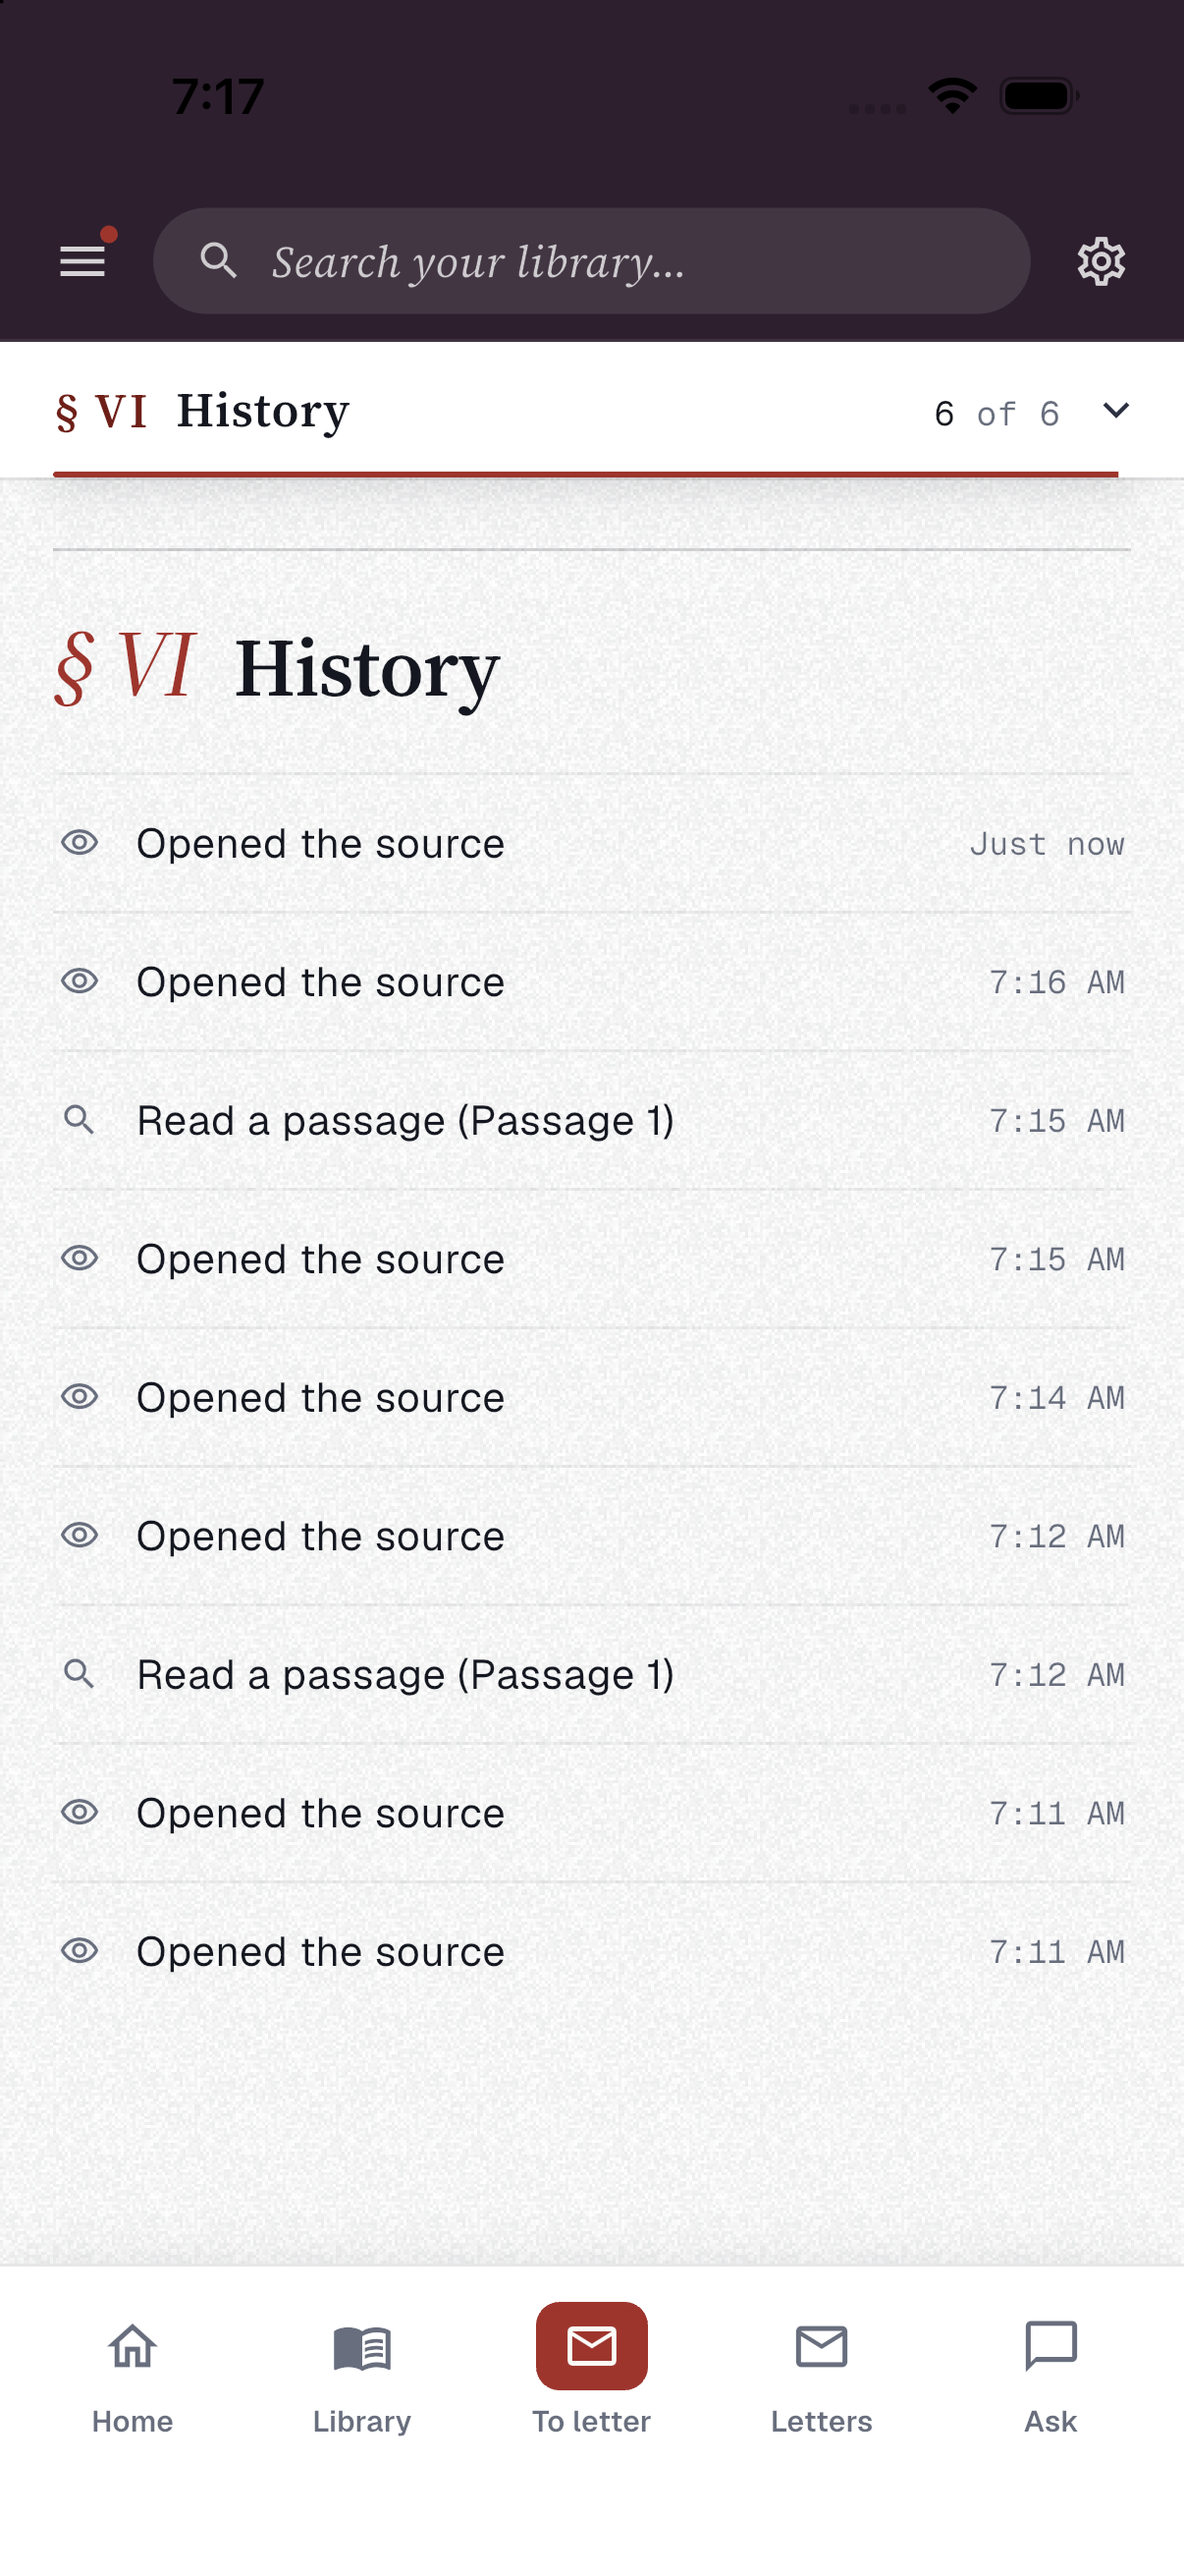
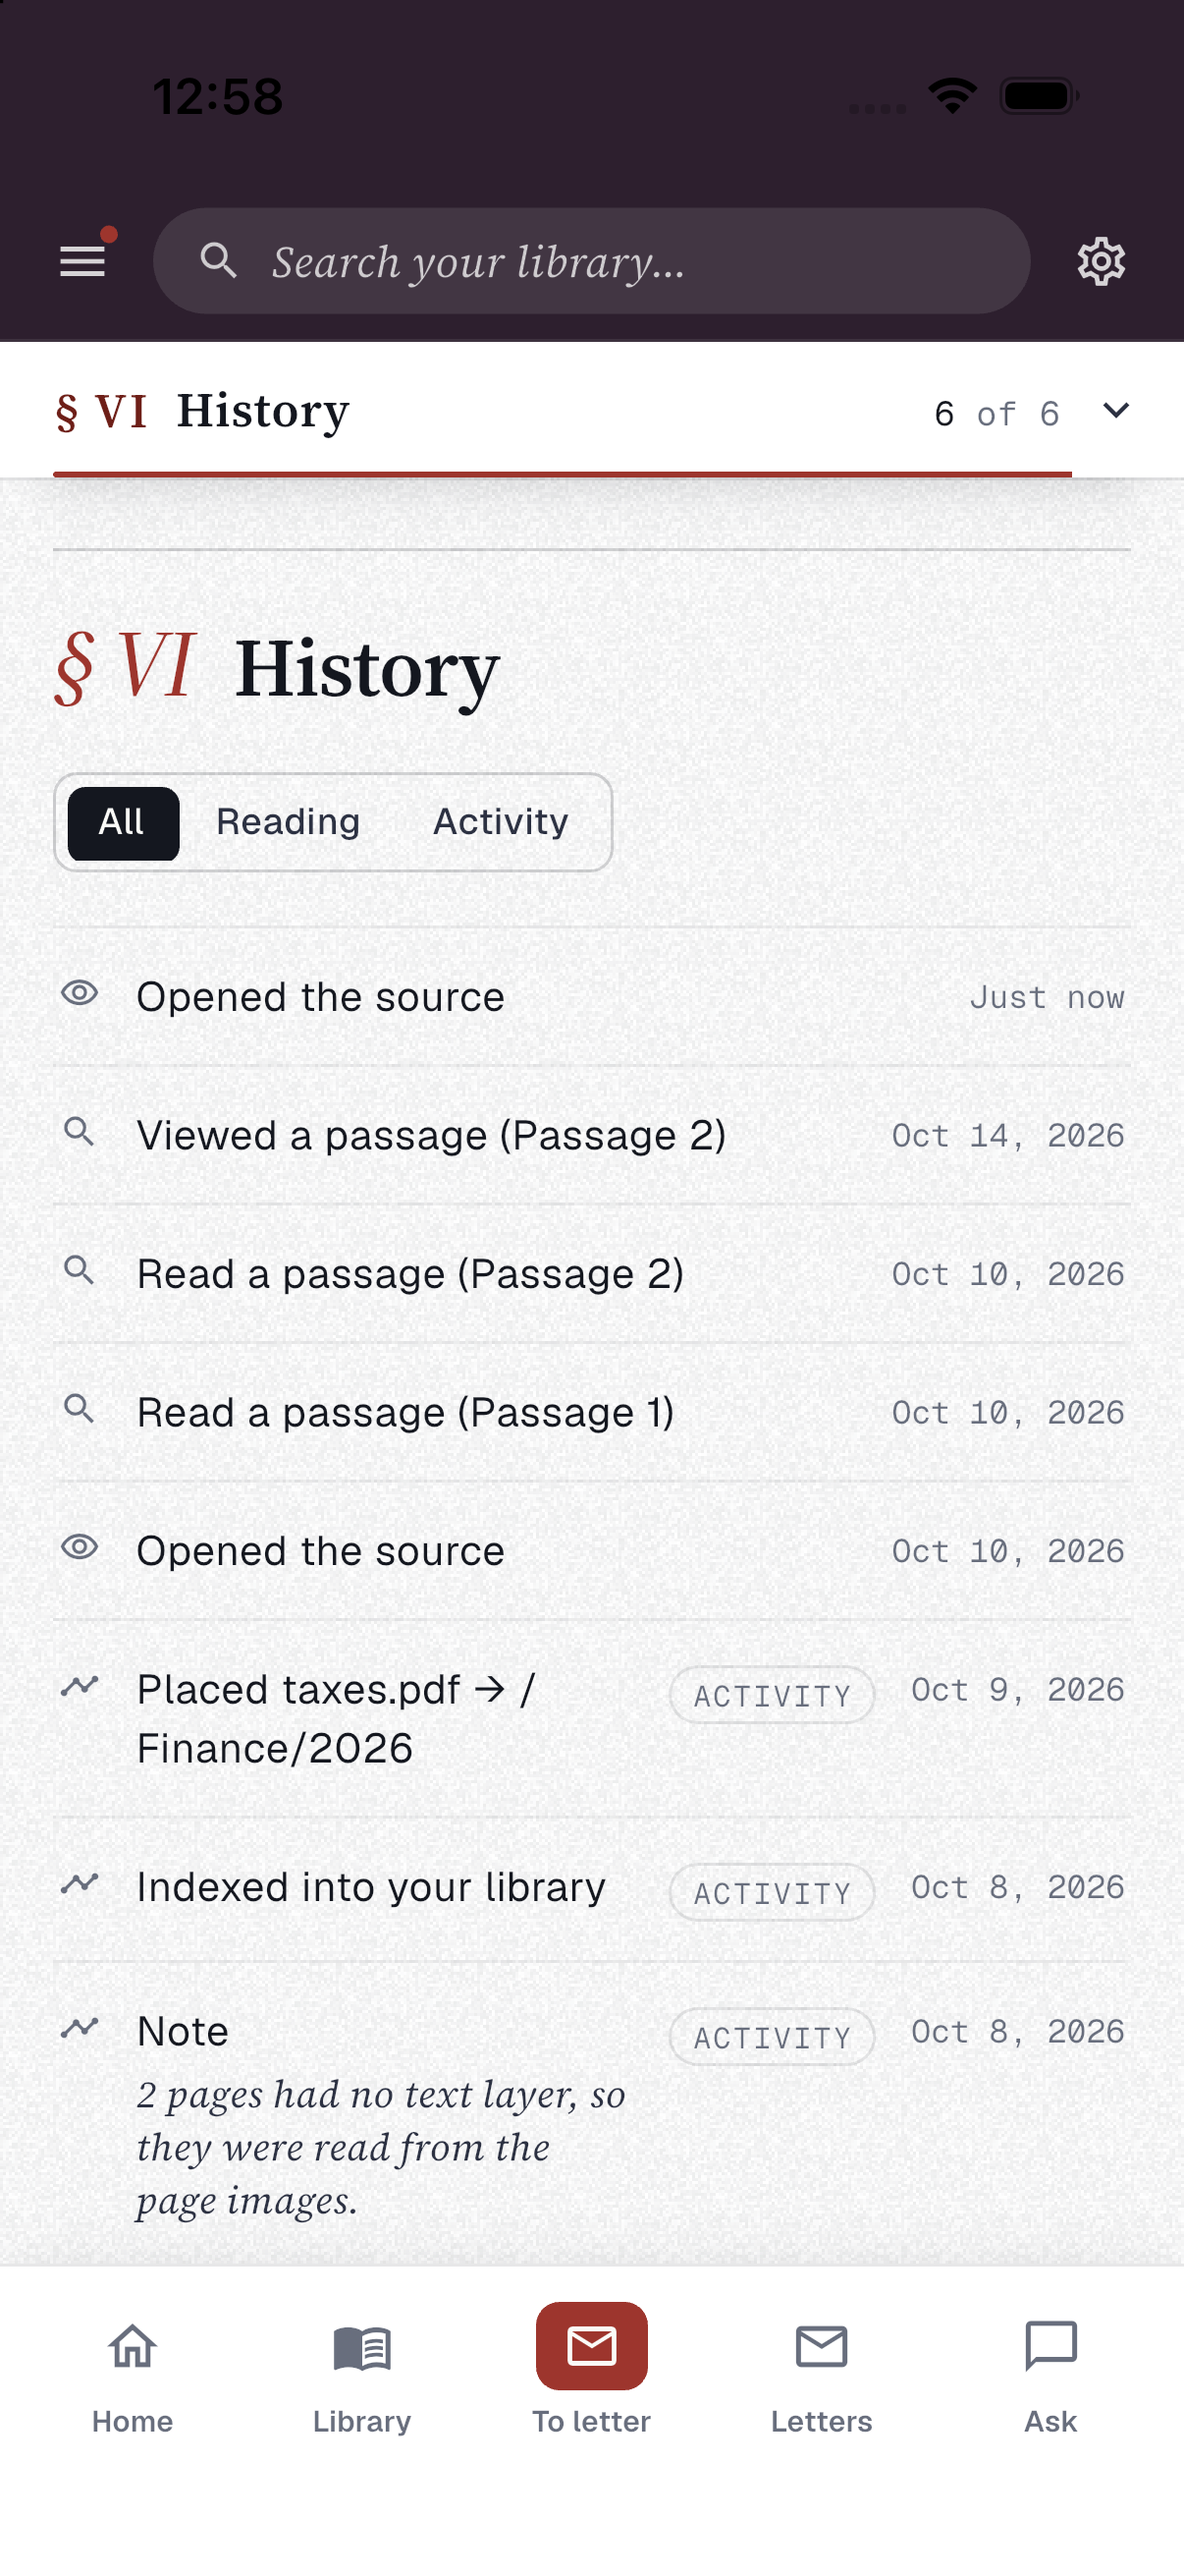
F-151, F-147 and F-148 done: their device runs and pairs on 432E0C97 (F-151 sources.md §The OAuth return; F-147 reader.md §History; F-148 study.md)
Device: "the OAuth return: an app session comes back, is claimed, and
the page files the import under a shelf (F-151)", "the source's History
folds in its Activity and the switch filters it" and "How Deep Study
Works opens from Study, its New program opens the editor, and a phone
session draws no key hint" all green on iOS 26.5 against the alt-port
emulator suite, from the main tree.

F-151's test and its oauth-granted-picked hold now drop the running head
before File under. On a phone the manifest is the page's KitDSheet (web's
phone frame folds it the same way, "2 items selected · STORIES"). Folded,
it sits under an IgnorePointer, so the select tap went to the page's
scroll and no Finance option opened. The first run failed there
(Bad state: No element). The hold folds the sheet again, so its frame is
web's closed peek, "1 item selected · FINANCE".

Pairs (light + dark, beside web's): oauth-granted, -granted-picked,
-already, -empty, -denied, -expired, -failed; reader-history, -activity,
-refused, -empty (tool/seed_history.py, --deny-reads, --deny-creates,
--remove); study, study-how. All are OK and settled, and each was looked
at against web. F-151's shots: field now names its seven holds.

Gates: analyze 0 · queue lint 0 · test/contract +1573 -1 (the held pin
only, 5.24.0) · screenshot_pair_check names none of these screens (its
existing STALE-PAIR / STALE-WEB-FRAME backlog is unchanged).

Claude-Session: https://claude.ai/code/session_016EQtQQQ8B5Vee7f4776UTt

diff --git a/integration_test/hold_screen_test.dart b/integration_test/hold_screen_test.dart
@@ -997,11 +997,27 @@ Future<void> reachState(WidgetTester tester, String holdState) async {
       if (holdState == 'oauth-granted-picked') {
         await tester.tap(find.bySemanticsLabel('Bring in Docs').first);
         await settle();
+        // On a phone the manifest is the running head's sheet: drop it to
+        // reach File under (folded, an IgnorePointer takes the tap), file
+        // under Finance, and fold it again — web's phone frame holds the
+        // closed peek with the shelf as its meta.
+        final peek = find.byKey(const ValueKey('d-peek'));
+        if (peek.evaluate().isNotEmpty) {
+          await tester.tap(peek);
+          await settle();
+        }
         await tester.ensureVisible(find.text('NoteLetter chooses').first);
-        await tester.tap(find.text('NoteLetter chooses').first);
+        final chooses = find.text('NoteLetter chooses').hitTestable();
+        expect(chooses, findsOneWidget,
+            reason: 'File under cannot be reached on a phone');
+        await tester.tap(chooses);
         await settle();
         await tester.tap(find.text('Finance').last);
         await settle();
+        if (peek.evaluate().isNotEmpty) {
+          await tester.tap(peek);
+          await settle();
+        }
       }
       return;
     // A source's History (5.44.0, ADR-199; F-147), the reference's

diff --git a/integration_test/device_run_test.dart b/integration_test/device_run_test.dart
@@ -4240,9 +4240,21 @@ void main() {
       await tester.ensureVisible(docs.first);
       await tester.tap(docs.first);
       await pumpFor(tester, total: const Duration(seconds: 1));
+      // On a phone the manifest is the running head's sheet (KitDSheet), as
+      // on web's phone frame: drop it to reach File under. Folded, it sits
+      // under an IgnorePointer, so a tap on the select reached the page's
+      // scroll instead (the first device run, 2026-11-02).
+      final head = find.byKey(const ValueKey('d-peek'));
+      if (head.evaluate().isNotEmpty) {
+        await tester.tap(head);
+        await pumpFor(tester, total: const Duration(milliseconds: 1200));
+      }
       // File under: the seed's Finance shelf, from the select.
       await tester.ensureVisible(find.text('NoteLetter chooses').first);
-      await tester.tap(find.text('NoteLetter chooses').first);
+      final chooses = find.text('NoteLetter chooses').hitTestable();
+      expect(chooses, findsOneWidget,
+          reason: 'File under cannot be reached on a phone');
+      await tester.tap(chooses);
       await pumpFor(tester, total: const Duration(seconds: 1));
       await tester.tap(find.text('Finance').last);
       await pumpFor(tester, total: const Duration(seconds: 1));

diff --git a/QUEUE.md b/QUEUE.md
@@ -2394,7 +2394,7 @@ a new obligation on a finished screen is a new item.
 - notes: Xavier 2026-10-30: D's look on today's signals. Offer only what the pre-filter measures (screenshot, or 80+ chars of on-device text; Automatic vs Review). The six kind switches, 'people, faces and IDs always passed over' and Cautious/Balanced/Trusting are declined on the record in ADR-198 and booked as a follow-up; 'cards or IDs never uploaded' would be false today. Web has no camera roll, so there is no web frame to pair: the reference is the prototype (Camera Roll Setup.html direction A, app-camera.jsx). Needs F-140. design handoff NoteLetter-design/handoff-d/README.md (mirror 2a4dd23). Redesign lane, briefs and reports in ../.claude/redesign-d-2026/.
 
 ## F-147 · A source's History folds in its Activity, matched by metadata.doc_id (5.44.0, ADR-199)
-- status: blocked: device test + pairs owed: the iOS build died 2026-11-01 (Swift compiles killed, no output) with disk at 4.2 GB and load ~600 from another workspace; code, 18 contract cases, analyze and the 15 lane gates green; web frames shot (c/history 33d3318); run tool/seed_history.py [--deny-reads|--deny-creates] before each hold batch
+- status: done 2026-11-02
 - screen: reader-history
 - route: /reader/{id}
 - spec: spec/screens/reader.md §History; spec/screens/reader.md §Composition; spec/decisions/ADR-199-a-sources-history-folds-in-its-activity.md; spec/data-model.md
@@ -2407,7 +2407,7 @@ a new obligation on a finished screen is a new item.
 - notes: Xavier's ruling 2 of 2026-11-01 (W2's XAVIER 1). Two reads: read_events (one-shot, limit 50) and a doc-scoped onSnapshot of activity_events (user_id == + metadata.doc_id ==, created_at desc, limit 50) over the composite index created in prod 2026-11-01. Never a title match, never the account's latest-200 window. No count; a half at its limit is labelled; a failed half is KitFailureBlock above the rows that loaded. Lane `history`, briefs and reports in ../.claude/calls-2026-11-01/.
 
 ## F-148 · How Deep Study Works, inside Study; a session's key hints hidden below 1024 (5.45.0)
-- status: blocked: device test + pairs owed: from the main tree on 432E0C97 after oauth's F-151/F-147 runs (sim floor 12 GB free before boot)
+- status: done 2026-11-02
 - screen: study, study-how
 - route: /study, /study/how-it-works, /study/session/{id}
 - spec: spec/screens/study.md
@@ -2433,7 +2433,7 @@ a new obligation on a finished screen is a new item.
 - notes: Xavier 2026-11-02 (ruling 2d, superseding ruling 6's 'to Settings'): web's Letter settings gets the field, where this client has it and where onboarding says it is; nothing moves to Settings, whose Your librarian row stays the way into Ask on both clients. 5.48.0 (contracts 70c101a) specifies it: Composition's last field, strings verbatim from F-05 (label Your librarian; placeholder 'e.g. Help me connect ideas across philosophy readings…'; sub 'What you want to learn or achieve. Your letter weights passages by it.'). Re-scoped here to match the spec: the face mono → sans (§6.9), maxLength missionMax (1000, the endpoint's silent cut; onboarding's mission box too), held while Save is out, purposeText sent only when it differs from the last value read or accepted (it rode every Save, re-embedding each time, so an embedder failure could refuse a delivery-hour change); a refused Save keeps the draft with the server's sentence beside Save. The comment saying web edits the key in Settings is corrected. Web lane librarian, branch c/librarian (c5974ab). Briefs and reports in ../.claude/calls-2026-11-01/.
 
 ## F-151 · The OAuth return page and File under (5.46.0, ADR-201)
-- status: blocked: device run + pairs owed: disk under the floor 2026-11-01 (code, analyze 0 and test/contract green on c/oauth)
+- status: done 2026-11-02
 - screen: sources
 - route: /sources
 - spec: spec/decisions/ADR-201-the-oauth-return-page-and-file-under-a-shelf.md (new); spec/screens/sources.md §The OAuth return; spec/api/cloud-storage.md; spec/features/cloud-oauth-return.md
@@ -2441,7 +2441,7 @@ a new obligation on a finished screen is a new item.
 - flutter: lib/pages/sources/oauth_return.dart (new); lib/pages/sources/file_under.dart (new); lib/pages/sources_page.dart; lib/pages/sources/cloud_sync_copy.dart; lib/state/cloud_notifier.dart; lib/state/org_notifier.dart; lib/shared/cloud_return.dart; lib/services/api.dart; lib/widgets/kit/kit_d_library.dart; test/contract/oauth_return_test.dart (new); test/contract/cloud_return_test.dart; test/contract/api_requests_test.dart
 - folds: 5.46.0
 - device_test: tool/device_test.sh — feed noteletter://cloud-connect?… to the app on iOS 26.5 against the emulator (run by the lane)
-- shots: none
+- shots: oauth-granted; oauth-granted-picked; oauth-already; oauth-empty; oauth-denied; oauth-expired; oauth-failed
 - extra_gates: flutter test test/contract
 - notes: Xavier 2026-11-01 (ruling 8): the connect flow fully implemented before he tests it. The return page renders in place of the Library on /sources while a return is open (no route); claiming, {Provider}, Connected (root listing + Manifest: two measured tallies, File under, Keep in sync, Bring in / Not now), Nothing to Bring In, and the notices Nothing Was Shared / The Link Expired (ten minutes) / Already Connected / Not Connected. org: enabled and insufficient_scope stay Library notices; the Library nudge and the auto-opened picker are retired. One connect entry point (CloudNotifier.connect), which quick add (F-152) calls; it remembers the provider it sent to consent (the session fills an error return's; a web build also keeps nl-cloud-connecting in prefs for the state's ten minutes). File under also on the import picker; Api.importFromCloud(tagIds:) sends tag_ids only when non-empty. The connect card's line is provider_email once connected. Web stacks the cards and notice actions at 860; here at the one breakpoint, 768. Android owed (no KVM).
 
